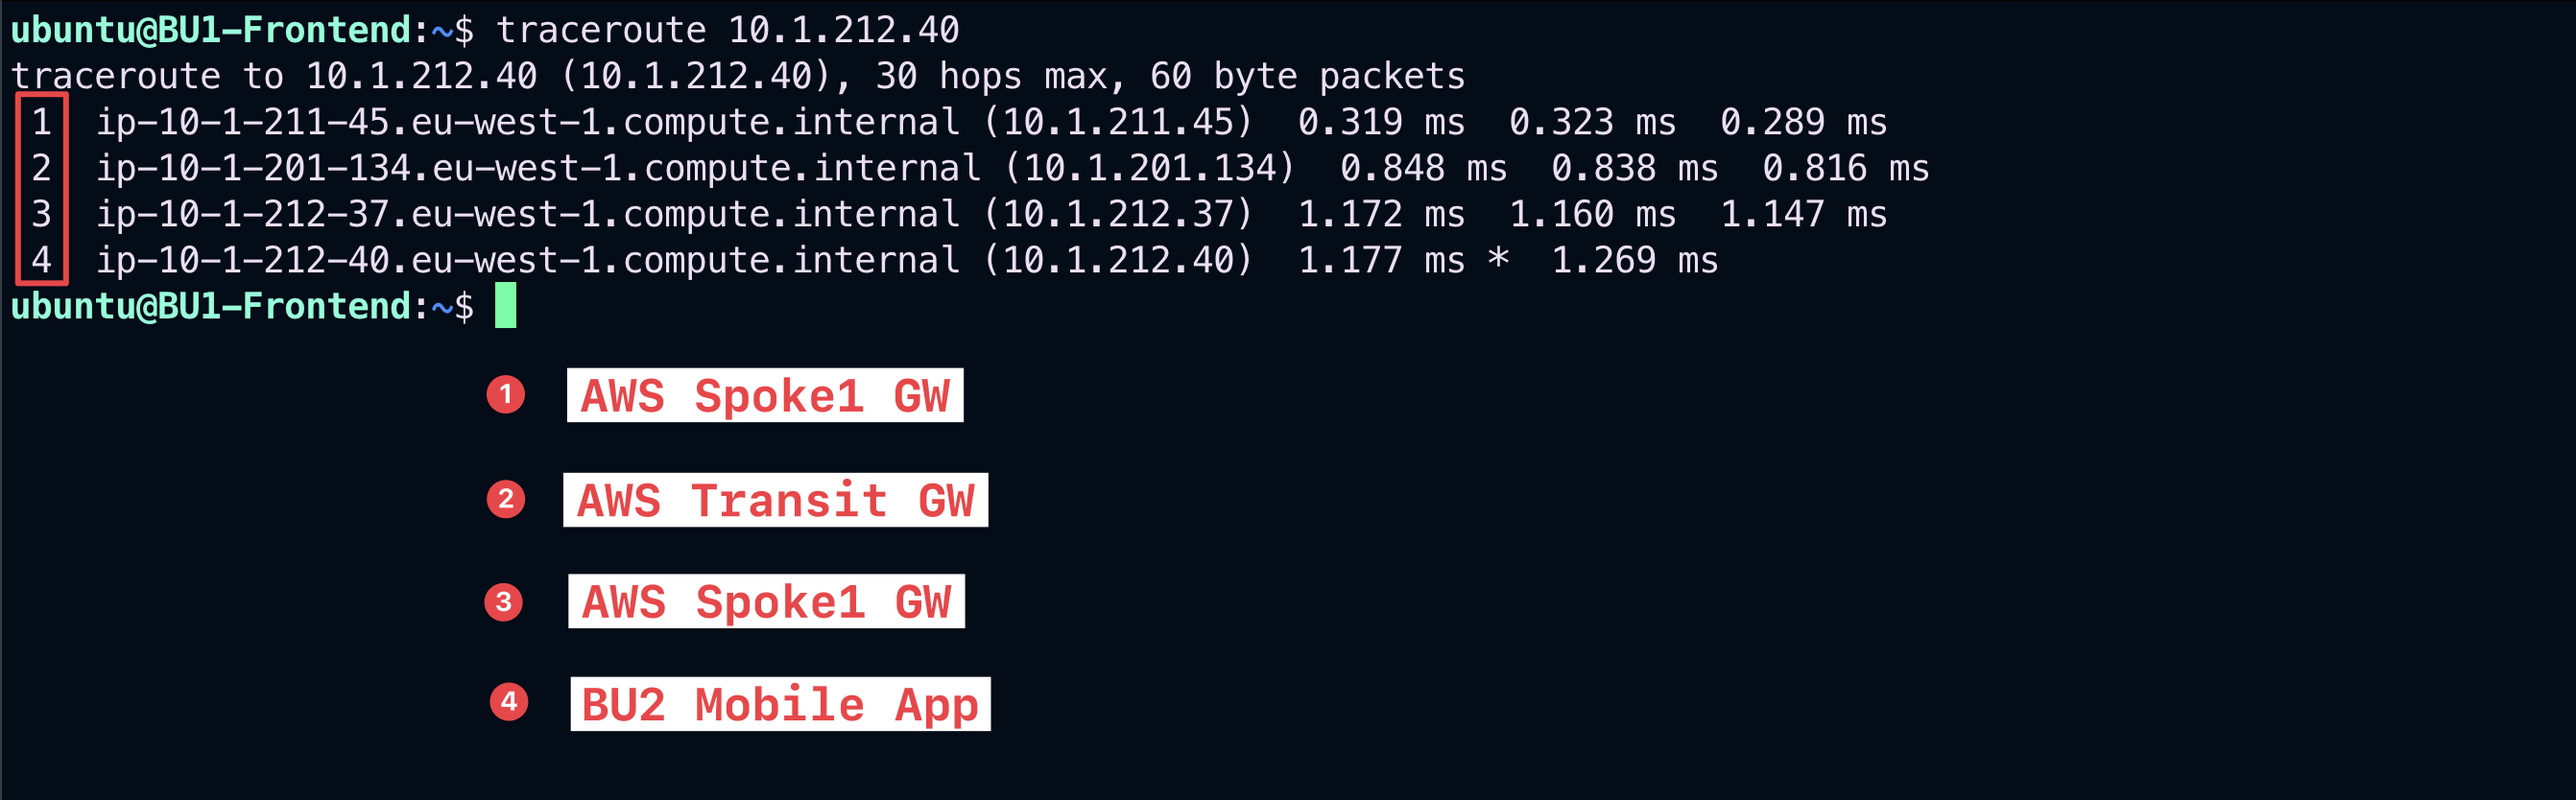
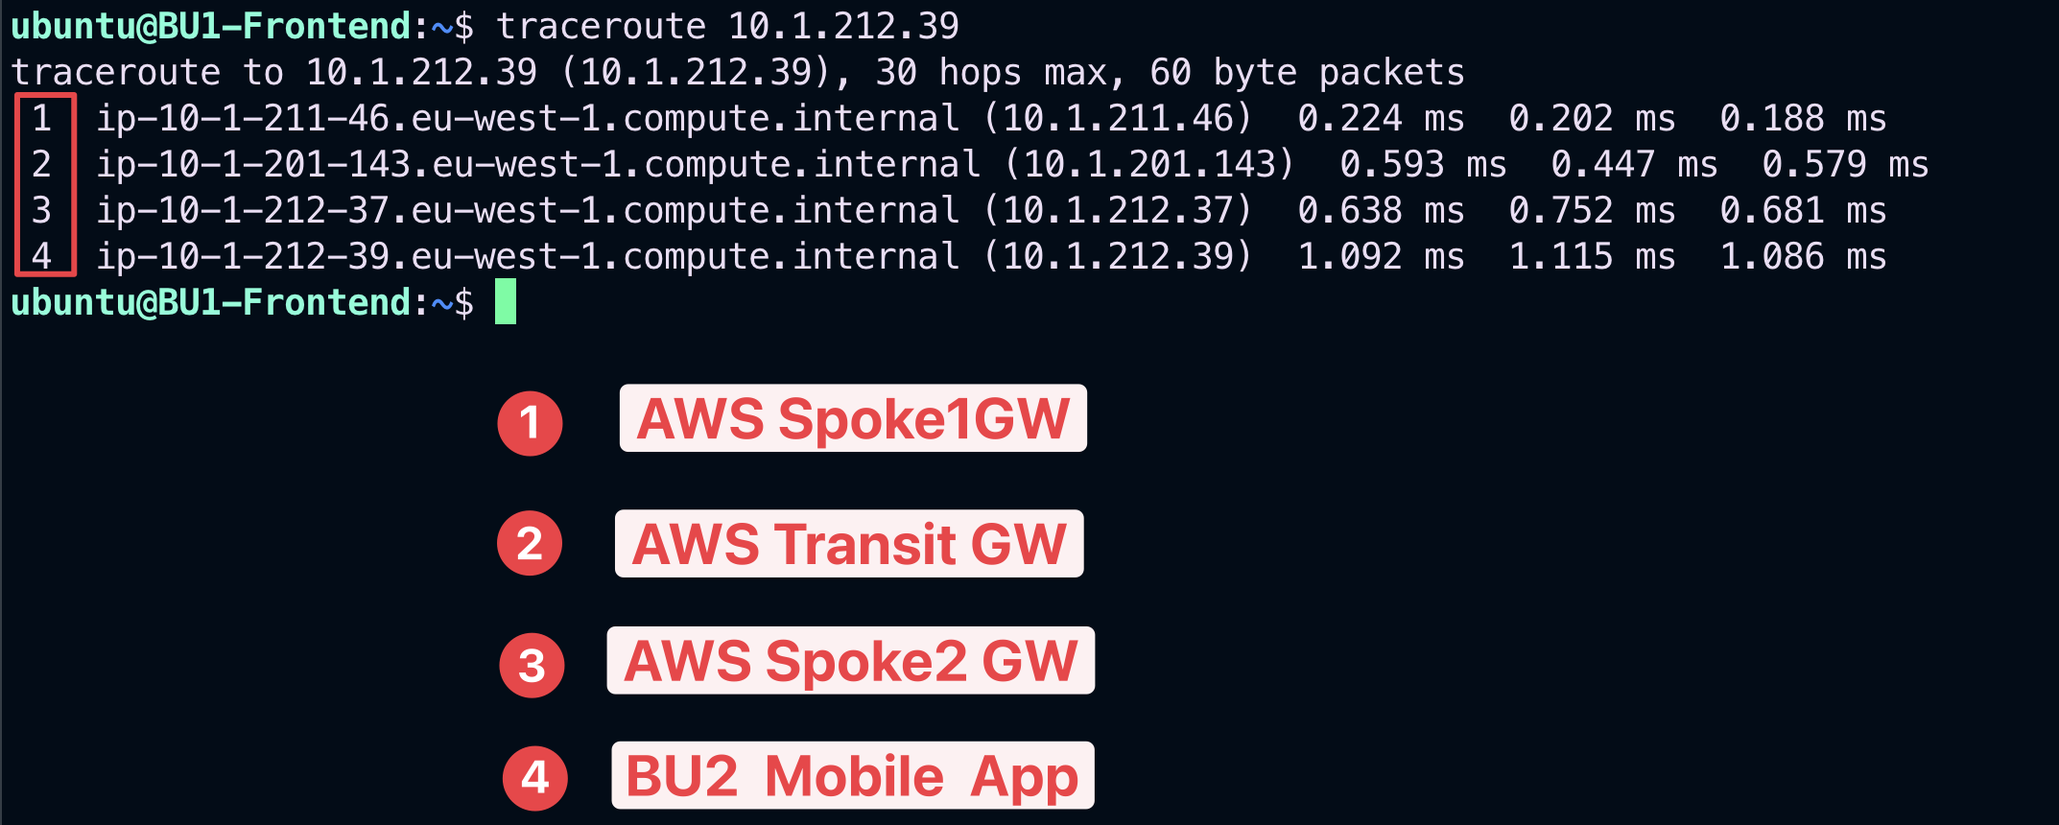
update for ops

Changed region(s): [[0.0, 0.0, 0.9366, 0.4053], [0.1873, 0.5923, 0.5308, 0.9976], [0.1873, 0.4365, 0.5308, 0.5612]]

diff --git a/ace_ops/docs/lab3.md b/ace_ops/docs/lab3.md
@@ -272,9 +272,9 @@ Relaunch also the traceroute from **BU1 Frontend** towards **BU2 Mobile App**.
 ---
 align: center
 ---
-Ping is ok!
+New Traceroute outcome
 ```
 
 ```{important}
-This time the traceroute outcome shows twice the IP address of the Transit FireNet GW (i.e. **.134** as shown in the screenshot above) along the path, due to the fact that the traffic is now diverted towards the Firewall that, after the completion of the Deep Packet Inspection, sends the permitted traffic back to the Transit FireNet GW.
+This time the traceroute outcome shows twice the IP address of the Transit FireNet GW (i.e. **.143** as shown in the screenshot above) along the path, due to the fact that the traffic is now diverted towards the Firewall that, after the completion of the Deep Packet Inspection, sends the permitted traffic back to the Transit FireNet GW.
 ```

diff --git a/ace_ops/docs/lab2.md b/ace_ops/docs/lab2.md
@@ -195,6 +195,7 @@ Regions selection
 
 ```{figure} images/lab2-invoke.png
 ---
+height: 200px
 align: center
 ---
 Invoke the EC2 service
@@ -202,6 +203,7 @@ Invoke the EC2 service
 
 ```{figure} images/lab2-instance.png
 ---
+height: 200px
 align: center
 ---
 Instances (running)
